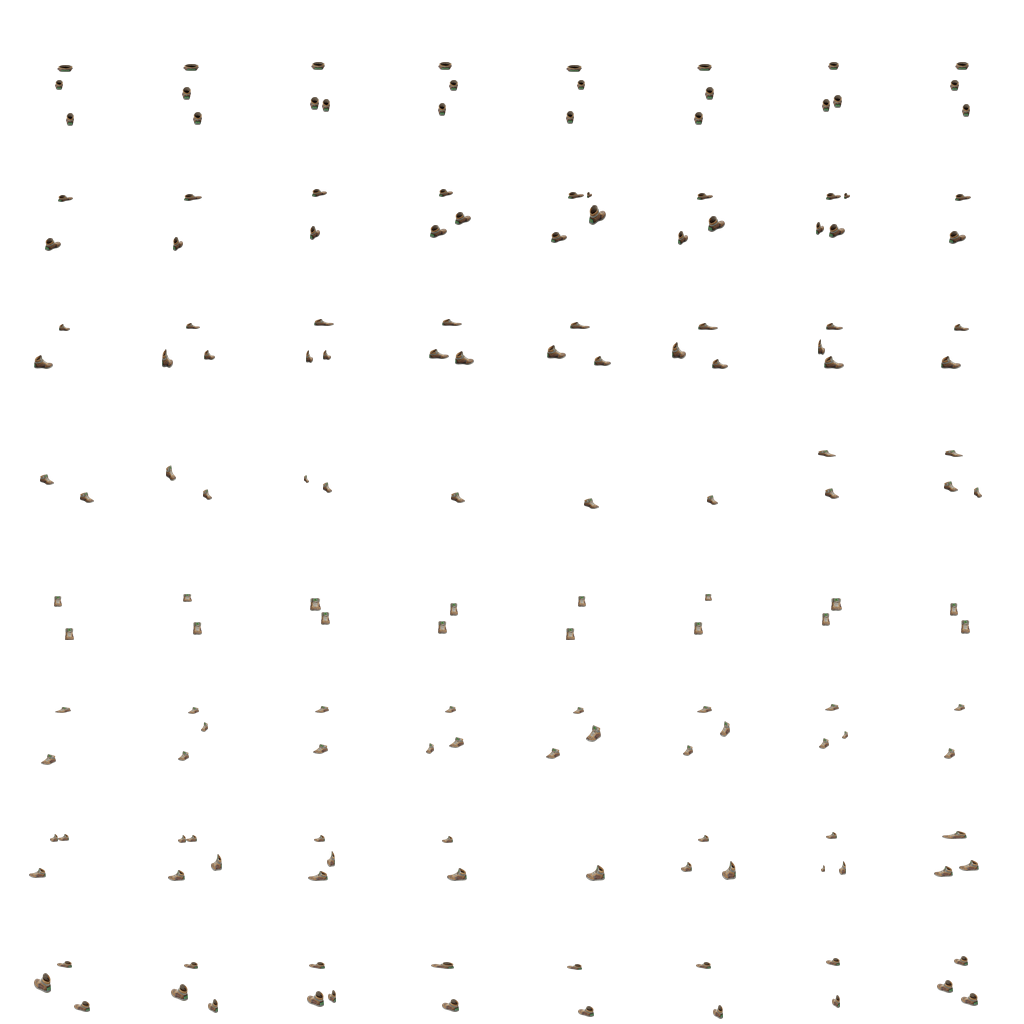
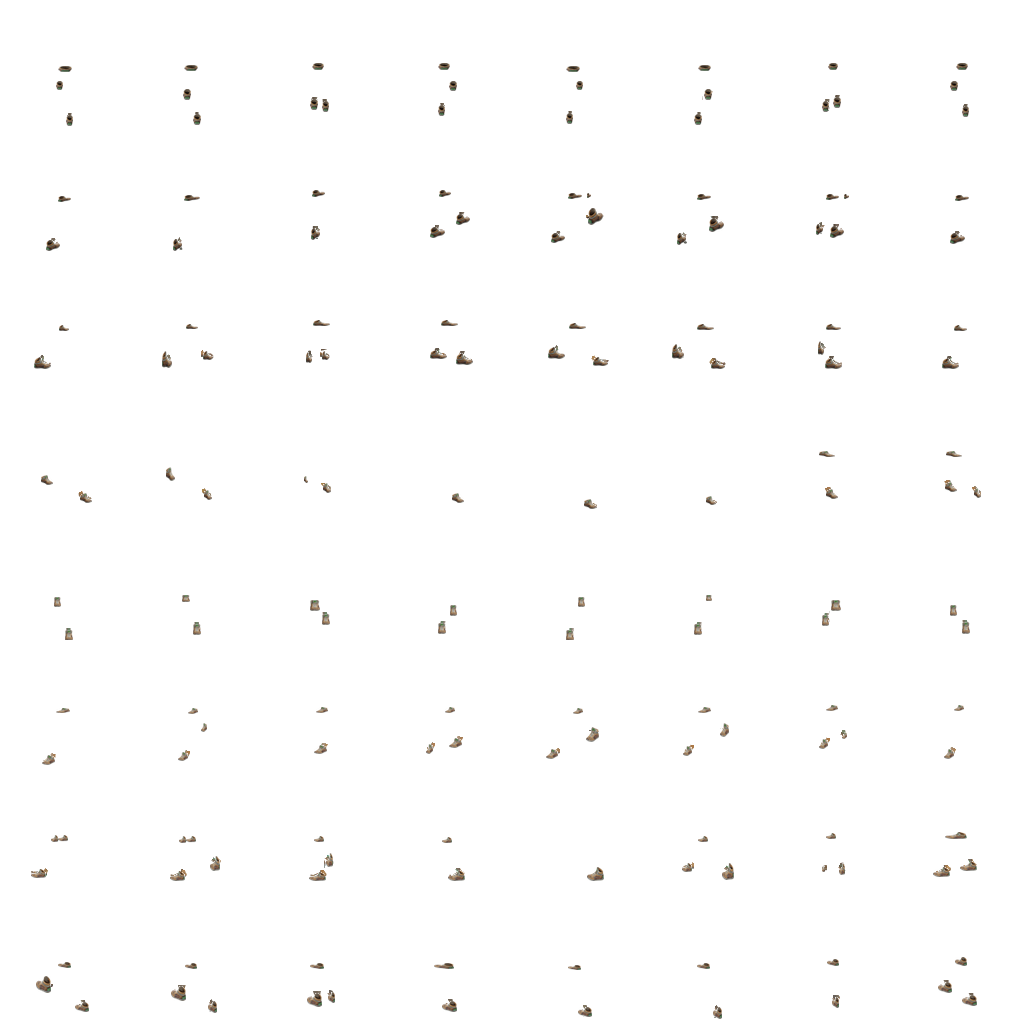
Ajusta sapatos de couro e seleciona a barra cargo pelo calçado equipado

diff --git a/index.html b/index.html
@@ -4,10 +4,10 @@
   <meta charset="UTF-8">
   <meta name="viewport" content="width=device-width, initial-scale=1, viewport-fit=cover">
   <meta name="theme-color" content="#070b0a">
-  <title>Fronteira Morta 2.0 · CALCADOS-02 — Entrar</title>
+  <title>Fronteira Morta 2.0 · CALCADOS-03 — Entrar</title>
   <link rel="stylesheet" href="css/style.css?v=20261117-chat01">
   <link rel="stylesheet" href="css/auth.css?v=20261117-backgrounds01">
-  <!-- Build identificável: CALCADOS-02, para diferenciar a versão publicada da versão em cache. -->
+  <!-- Build identificável: CALCADOS-03, para diferenciar a versão publicada da versão em cache. -->
   <!-- Rebuild GitHub Pages default address; no custom domain configured. -->
   <!-- Re-publicação da versão 2.2.2 em 2026-11-16: sem alteração de mecânicas ou saves. -->
 </head>
@@ -38,7 +38,7 @@
       <button type="button" id="resend-confirmation" class="textual">Reenviar confirmação de e-mail</button>
       <button type="button" id="test-connection" class="textual">Testar conexão com o servidor</button>
       <p id="login-status" role="status" aria-live="polite"></p>
-      <small>A autenticação é protegida pelo Supabase. Seu progresso é armazenado na sua conta. <strong>Conexão v2.3.1 — VIP no HUD · CALCADOS-02</strong></small>
+      <small>A autenticação é protegida pelo Supabase. Seu progresso é armazenado na sua conta. <strong>Conexão v2.3.1 — VIP no HUD · CALCADOS-03</strong></small>
     </div>
   </form>
   <form id="forgot-form" class="fm-auth" hidden>
@@ -62,11 +62,11 @@
       <canvas id="gl" width="960" height="600" aria-hidden="true"></canvas>
       <canvas id="game" width="960" height="600" aria-label="Fronteira Morta"></canvas>
     </div>
-    <p class="help">WASD andar · Shift correr · mouse mirar e atacar · 1 2 3 / roda trocar arma · R recarregar · E usar · B mochila · F comer · G beber · H kit · I antibiótico · C atributos · L armas · M mapa · N cidade · O objetivos · U amigos · Esc pausa e missões · J música · K som · I mensagens · Enter chat <span id="vip-footer" class="vip-footer" aria-live="off">VIP: carregando...</span> <span id="trindade-footer" class="trindade-footer" hidden aria-live="off"></span> <span id="fm-build" style="display:inline-block;margin-left:9px;padding:1px 6px;border:1px solid #7a906a;border-radius:4px;color:#d5e8bf;background:#172316;font-size:11px" title="Identifica a versão do jogo carregada no navegador">VERSÃO CALCADOS-02</span></p>
+    <p class="help">WASD andar · Shift correr · mouse mirar e atacar · 1 2 3 / roda trocar arma · R recarregar · E usar · B mochila · F comer · G beber · H kit · I antibiótico · C atributos · L armas · M mapa · N cidade · O objetivos · U amigos · Esc pausa e missões · J música · K som · I mensagens · Enter chat <span id="vip-footer" class="vip-footer" aria-live="off">VIP: carregando...</span> <span id="trindade-footer" class="trindade-footer" hidden aria-live="off"></span> <span id="fm-build" style="display:inline-block;margin-left:9px;padding:1px 6px;border:1px solid #7a906a;border-radius:4px;color:#d5e8bf;background:#172316;font-size:11px" title="Identifica a versão do jogo carregada no navegador">VERSÃO CALCADOS-03</span></p>
   </main>
   <template id="game-scripts">
     <script src="js/config.js?v=20261118-semcapa01"></script>
-    <script src="js/wardrobe.js?v=20261120-calcados02"></script>
+    <script src="js/wardrobe.js?v=20261120-calcados03"></script>
     <script src="js/util.js"></script>
     <script src="js/sprites.js"></script>
     <script src="js/items.js?v=20261120-mats01"></script>
@@ -86,7 +86,7 @@
     <script src="js/inventory.js?v=20261118-semcapa01"></script>
     <script src="js/objectives.js"></script>
     <script src="js/survival.js?v=20261116-fix1"></script>
-    <script src="js/social.js?v=20261120-calcados02"></script>
+    <script src="js/social.js?v=20261120-calcados03"></script>
     <script src="js/chat.js?v=20261117-chat01"></script>
     <script src="js/shared_world.js?v=20261117-zumbis01"></script>
     <script src="js/junk.js?v=20261116-visual-implants-reset-final8"></script>
@@ -98,7 +98,7 @@
     <script src="js/render_extra.js?v=20261117-hazmat02"></script>
     <script src="js/render_hub.js?v=20261117-wardrobe01"></script>
     <script src="js/sprite_data.js?v=20261120-tronco01"></script>
-    <script src="js/perspective.js?v=20261120-calcados02"></script>
+    <script src="js/perspective.js?v=20261120-calcados03"></script>
     <script src="js/paperdoll.js?v=20261119-semarma01"></script>
     <script src="js/gl.js?v=20261116-sun150-clock10-v2"></script>
     <script src="js/base_guards.js?v=20261116-guards1"></script>

diff --git a/js/wardrobe.js b/js/wardrobe.js
@@ -21,7 +21,7 @@ for (const set of CLOTHING_SETS) {
 // layer = camada img/gear/<layer>_<pose>.png e img/portrait_<layer>.png desenhada por cima do corpo;
 // icon = foto da própria peça. Peças 3D não pintam o corpo (a camada já tem a cor do modelo).
 // versão das imagens do personagem (corpo, camadas, retrato, fotos): troca quando o personagem é renderizado de novo
-const CHAR_V = "?v=roger12";
+const CHAR_V = "?v=roger13";
 const W3D = (id, kind, layer, name, setName) => ({ id, kind, set: "3d", setName, name, layer, icon: `img/clothing/${layer}.png${CHAR_V}`, color: "#6a6658", accent: "#8a8672", texture: "canvas" });
 // capa com capuz (manto medieval) vestida no Roger, com física de pano na caminhada
 // máscara HOPE // The Last Face (CC-BY, Atahan.Danaci): andando, os olhos deixam rastros de brilho (perspective.js)
@@ -34,7 +34,13 @@ const IMPORTED_CLOTHING = [W3D("cape_hood", "cape", "cape_hood", "Capa com capuz
   W3D("cl_boots_tenis_brancos", "boots", "cl_boots_tenis_brancos", "Tênis Brancos", "Calçados"),
   W3D("cl_boots_sapatos_couro", "boots", "cl_boots_sapatos_couro", "Sapatos de Couro", "Calçados")];
 // camada 3D da peça equipada (ou null)
-function clothingLayer(kind, equipment) { const it = clothingGet(kind, equipment); return it && it.layer ? it.layer : null; }
+function clothingLayer(kind, equipment) {
+  const item = clothingGet(kind, equipment);
+  if (item?.id === "cl_pants_cargo_futurista" && clothingGet("boots", equipment)?.id === "cl_boots_sapatos_couro") {
+    return "cl_pants_cargo_futurista_couro";
+  }
+  return item?.layer || null;
+}
 // peça que pinta o corpo (as 3D não pintam)
 function clothingTintItem(kind, equipment) { const it = clothingGet(kind, equipment); return it && !it.layer ? it : null; }
 for (const item of IMPORTED_CLOTHING) {
